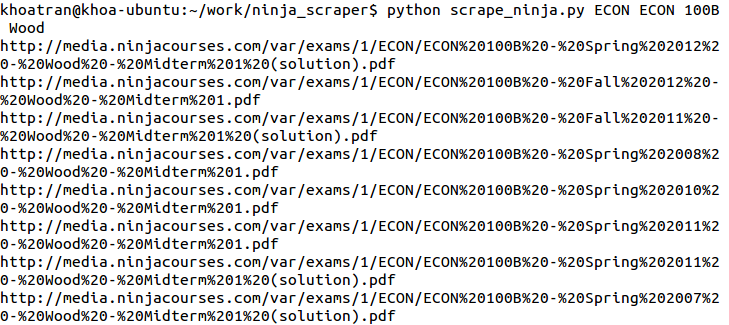
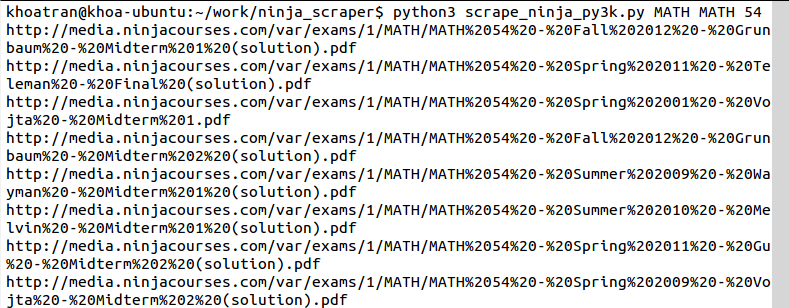
Fix several README instructions

diff --git a/README.md b/README.md
@@ -2,19 +2,19 @@ Ninja Scraper
 =============
 Get your exams from Ninja Course!
 
-## Version and Changelog
-* v1.2: No need for professor's name anymore! It will now scrape through all exams belong to professors whose names are on the Ratings tab.
-* v1.1: Modified to work with every department, but users still need the abbreviations and professor's name. Also added support for Python3
-* v1.0: Forked from https://github.com/Vaishaal/ninjascraper
+## Versions and Changelog
+* **v1.2**(12/8/2012): Modified to take one less command-line argumment, aka no need for professor's name anymore! It will now scrape through all exams belong to professors whose names are on the Ratings tab. Also, the exams will be saved in a directory named after the course whose exams you want to search for.
+* **v1.1**(12/7/2012): Modified to work with every department, but users still need the abbreviations and professor's name. Also added support for Python3
+* **v1.0**(12/6/2012): Forked from https://github.com/Vaishaal/ninjascraper
 
 ## Features and Acknowledgements
 * Download all of the exams for the course you want into your local directory.
 * Currently work for EVERY course that has its exams posted on Ninja Course. 
 * Worked extremely well for CS courses thanks to Vaishaal Shankar. 
-* Modified to work for every course by me, but you will need to know at least the professor's last name and the department's abbreviation to search for the exams (See guide below).
+* Modified to work for every course by me, but you will need to know the department's abbreviation to search for the exams (See guide below).
 * There is a very, very tiny bug in v1.2. A couple of courses have exams belong to professors that are not on NinjaCourse. For example, CS174 has 4 exams belong to Prof. Bartlett, but as you can see, he doesn't have an entry on NC http://ninjacourses.com/explore/1/course/COMPSCI/174/#ratings so the scraper couldn't find him. I have yet to find a solution to this problem, but I'll try to look into it soon.
 
-## Install
+## Installation
 **You must have Python 2.6+ installed on your computer**. After that, just save the scrape_ninja.py (Python2) or scrape_ninja_py3k.py (Python 3) file to your local machine. 
 
 **You will also need to install BeautifulSoup4**. The below commands should help you set up everything if you are on a Debian/Ubuntu machine. Windows and MacOSX users can find something very similar to these (see below).
@@ -95,11 +95,11 @@ or
 python3 scrape_ninja_py3k.py [DEPARTMENT ABBV] [NINJA ABBV] [COURSE NUMBER]
 ```
 
-For example, if I want to get ECON 100B's exams, I would type
+For example, if I want to get MATH 54's exams, I would type
 ```
-python scrape_ninja.py ECON ECON 100B
+python scrape_ninja.py MATH MATH 54
 or
-python3 scrape_ninja_py3k.py ECON ECON 100B
+python3 scrape_ninja_py3k.py MATH MATH 54
 ```
 
 The result (for the above example):
@@ -126,15 +126,19 @@ Simple? Don't let the long description scared you. GO GET YOUR EXAMS AND ACE THE
 
 **A**: I believe so! It's fairly straightforward and only takes a couple of minutes, so please go ahead and do it to save you some headache later on.  
 
-**Q**: This is so cool! Thanks!
-
-**A**: You're welcome :) Please say thanks to Vaishaal Shankar. He did almost everything. I basically just tweaked it a little bit to work for other department's courses, added in this big README file to make it clearer. 
-
 **Q**: It's not working! 
 
 **A**: Have you checked if you followed all the steps above (download BS4, Python2.6+, accurate abbreviations for both departments and ninja, etc.)? If it still doesn't work after that, send me an email (please specify what commands you tried) and I'll try to retest it and download the exams for you. No worries!
 
-## Contact me
+**Q**: Why is v1.2 taking soooooo long to run?
+
+**A**: It should be, unfortunately. We're scraping through every combination of professor's last name, semester, year, etc. Please be patient!
+
+**Q**: This is so cool! Thanks!
+
+**A**: You're welcome :) Please say thanks to Vaishaal Shankar as well. 
+
+## Contact Me
 Please let me know if there is any bug, or if it's not working for you (see the last Q&A above). My email is a combination of those strings: "berkeley.edu", "@", "khoatran".
 
 ## Original Description by Vaishaal Shankar
